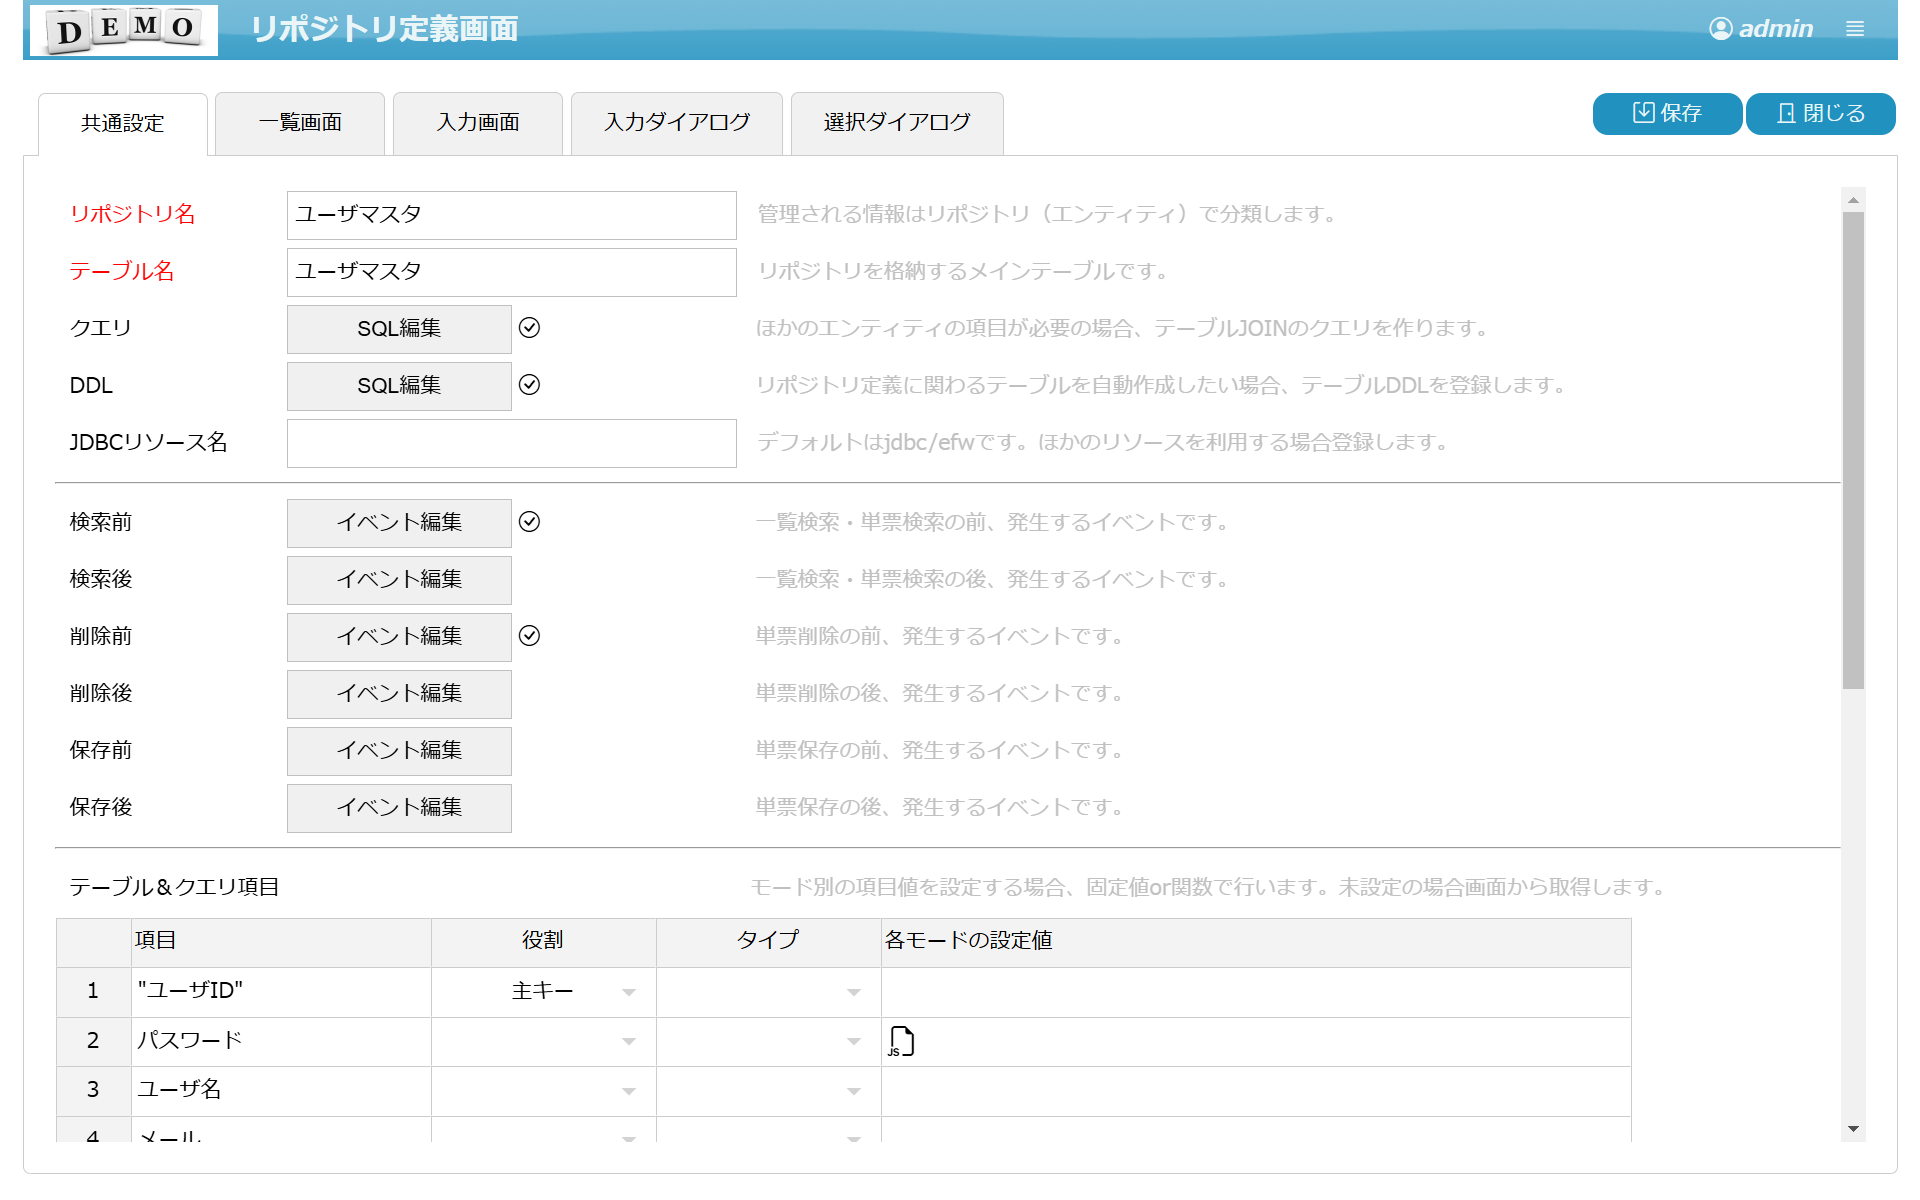
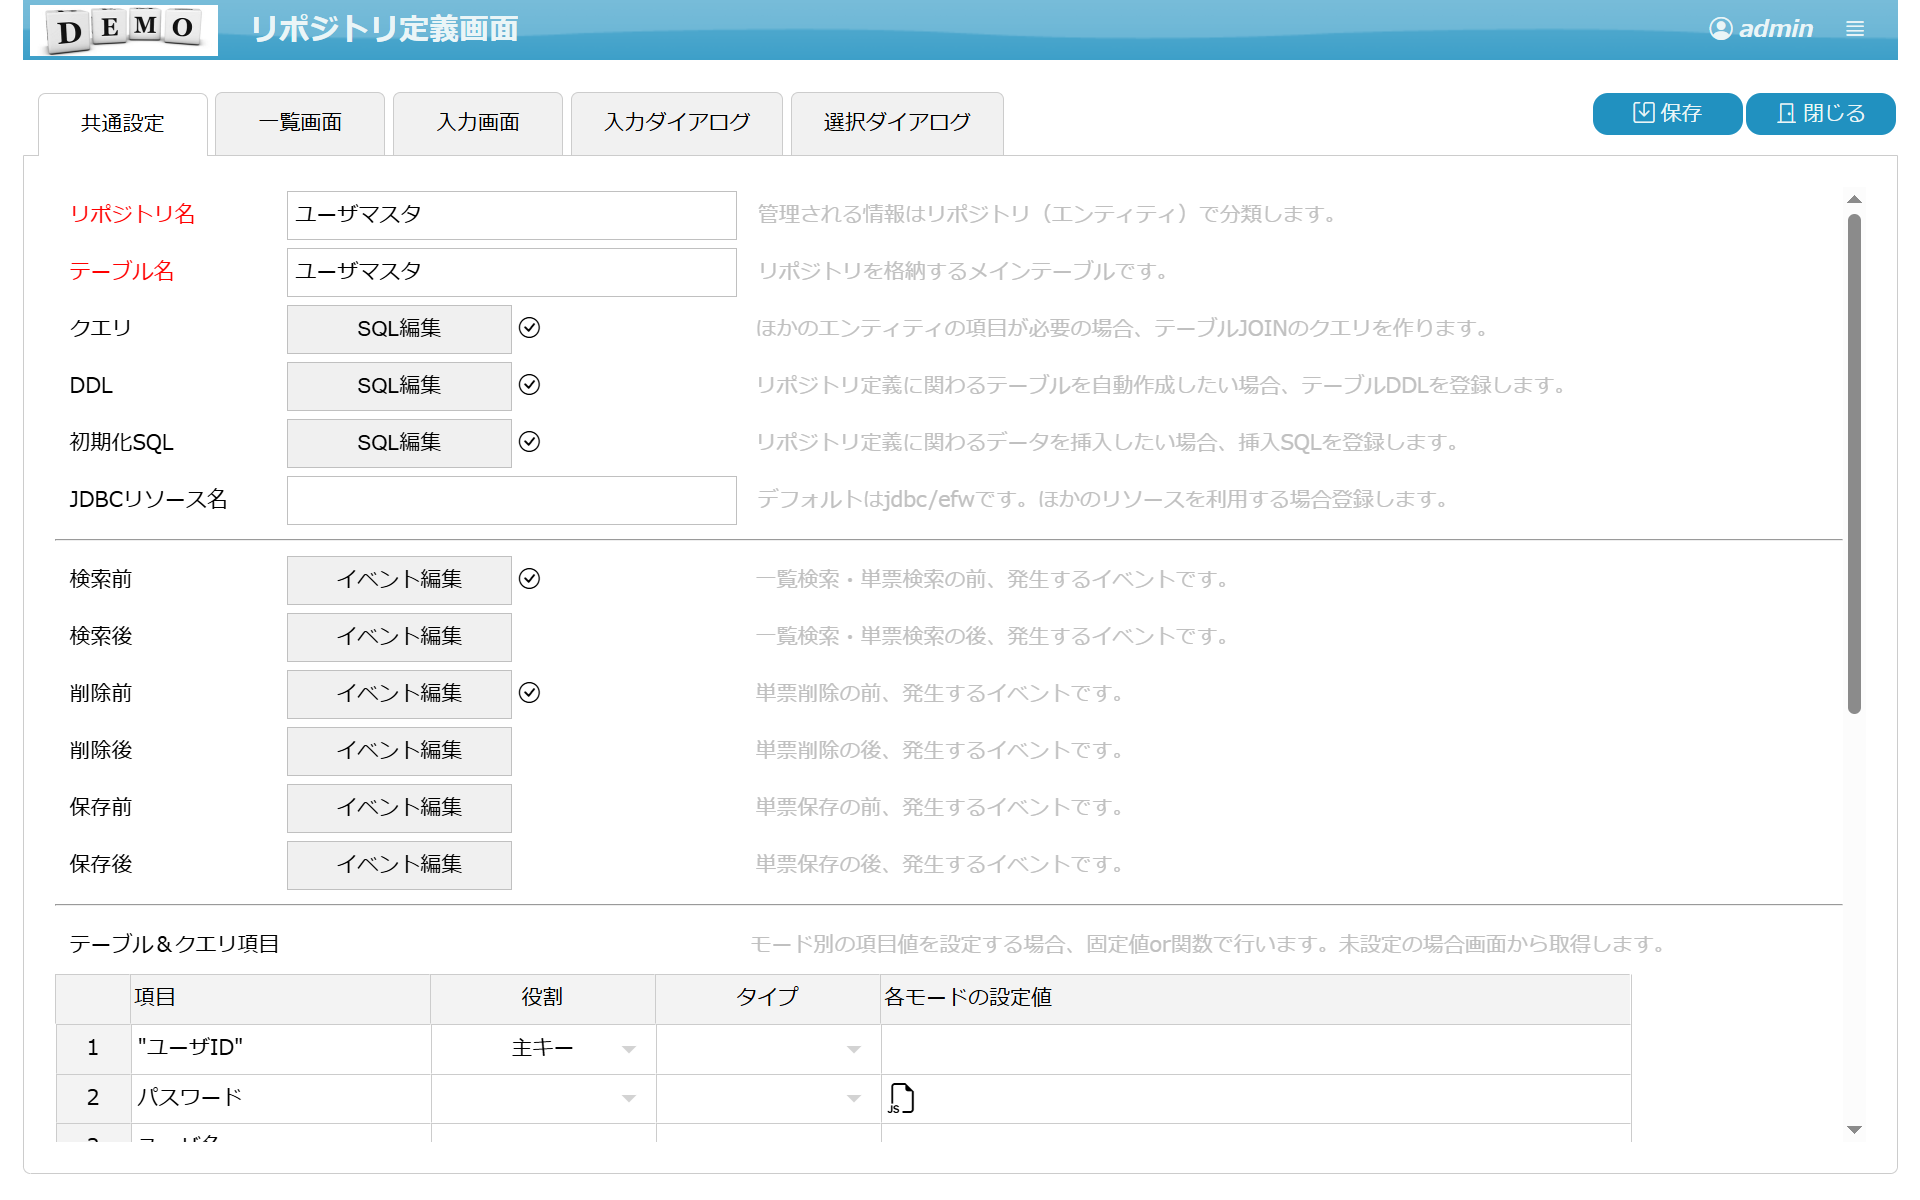
20250316

diff --git a/help/comm.tableQuery.md b/help/comm.tableQuery.md
@@ -20,28 +20,31 @@
 |テーブル名		|リポジトリに格納するメインテーブルの名称。※１|
 |クエリ			|ほかのエンティティの項目が必要の場合、テーブルJOINのクエリを作る。|
 |DDL			|リポジトリ定義に関わるテーブルを自動作成したい場合、テーブルDDLを登録する。|
+|初期化SQL		|リポジトリ定義に関わる初期データを自動作成したい場合、初期化SQLを登録する。|
 |JDBCリソース名	|デフォルトはjdbc/efw。ほかのリソースを利用する場合登録する。|
 
-※１：名称に特殊文字を含む場合、各DBのSQL規則に従ってコーテーションをつけてください。
+※１：名称に特殊文字を含む場合、ANSIのSQL規則に従ってコーテーションをつけてください。
 ```sql
---postgreSqlの場合、特殊文字を含むエンティティ名はダブルクォーテーションで囲む
+--特殊文字を含むエンティティ名はダブルクォーテーションで囲む
+--MySQL（MariaDB）の場合、JDBCのURLにANSIモードのオプション設定で、ダブルクォーテーションが有効にできる。
 "ユーザマスタA"
 ```
 
-DDL登録のサンプル。毎回システム起動時、実行されるので、重複実行を防ぐ工夫が必要。
+毎回システム起動時、テーブル名に登録されるメインテーブルが存在しない場合、DDLと初期化SQLが実行される。
+
+DDL登録のサンプル。
 ```sql
-CREATE TABLE IF NOT EXISTS "ユーザマスタ"
+CREATE TABLE "ユーザマスタ"
 (
   "ユーザID" character varying(10) PRIMARY KEY, -- ユーザID
   "所属部署コード" character varying(6), --所属部署コード
   "ユーザ名" character varying(20) -- ユーザ名
-);
+)
+```
+初期化SQLのサンプル。
+```sql
 insert into "ユーザマスタ"
-select 'admin',null
-where not exists (
-	select "ユーザID","所属部署コード","ユーザ名" 
-	from "ユーザマスタ" where "ユーザID"='admin'
-);
+select 'admin',null,'admin'
 ```
 
 ### ここだよ
